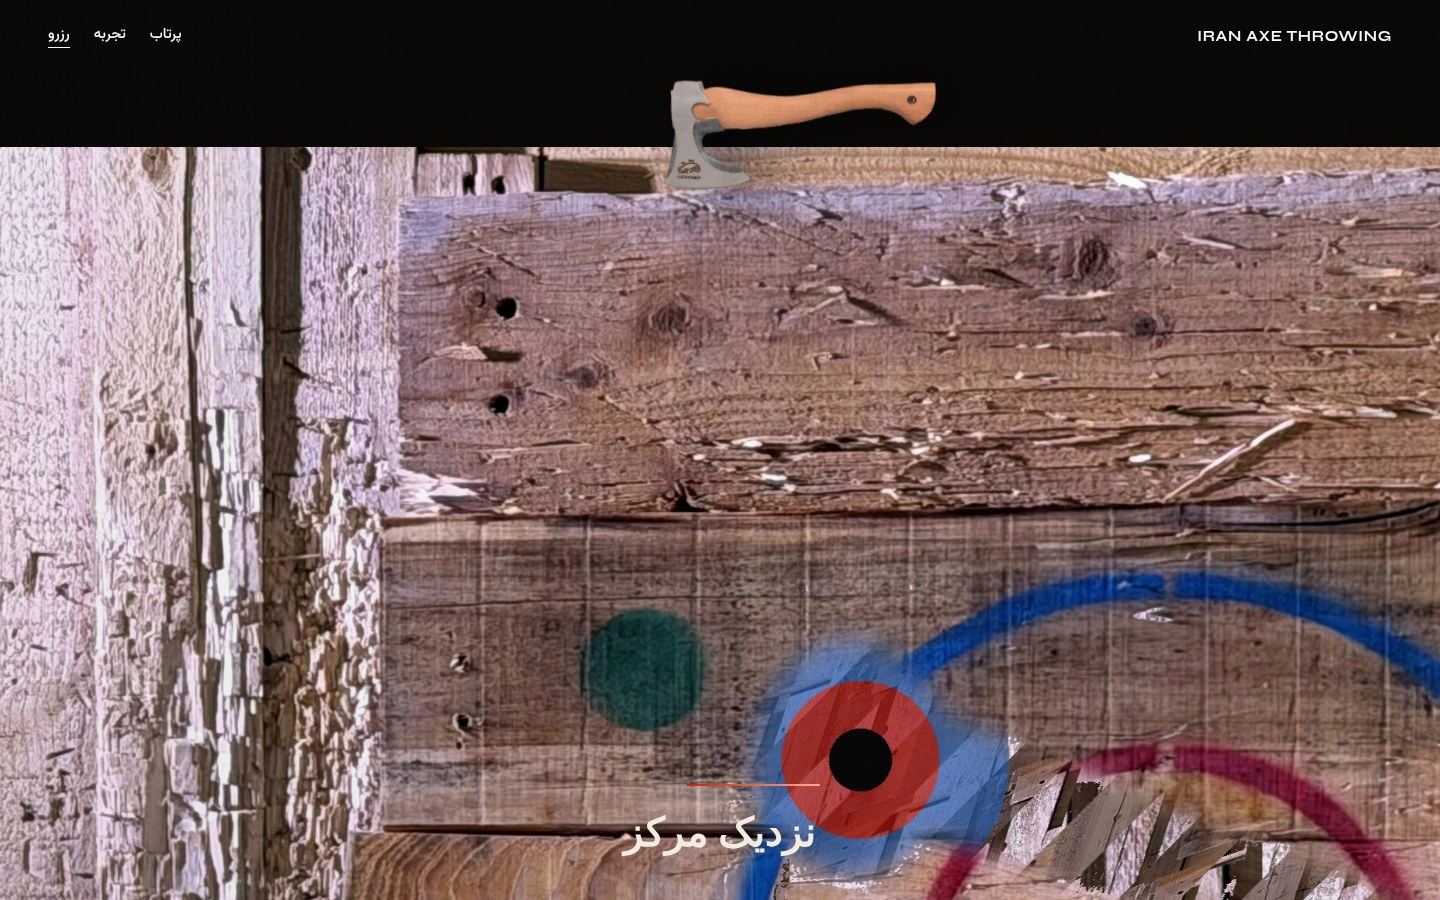
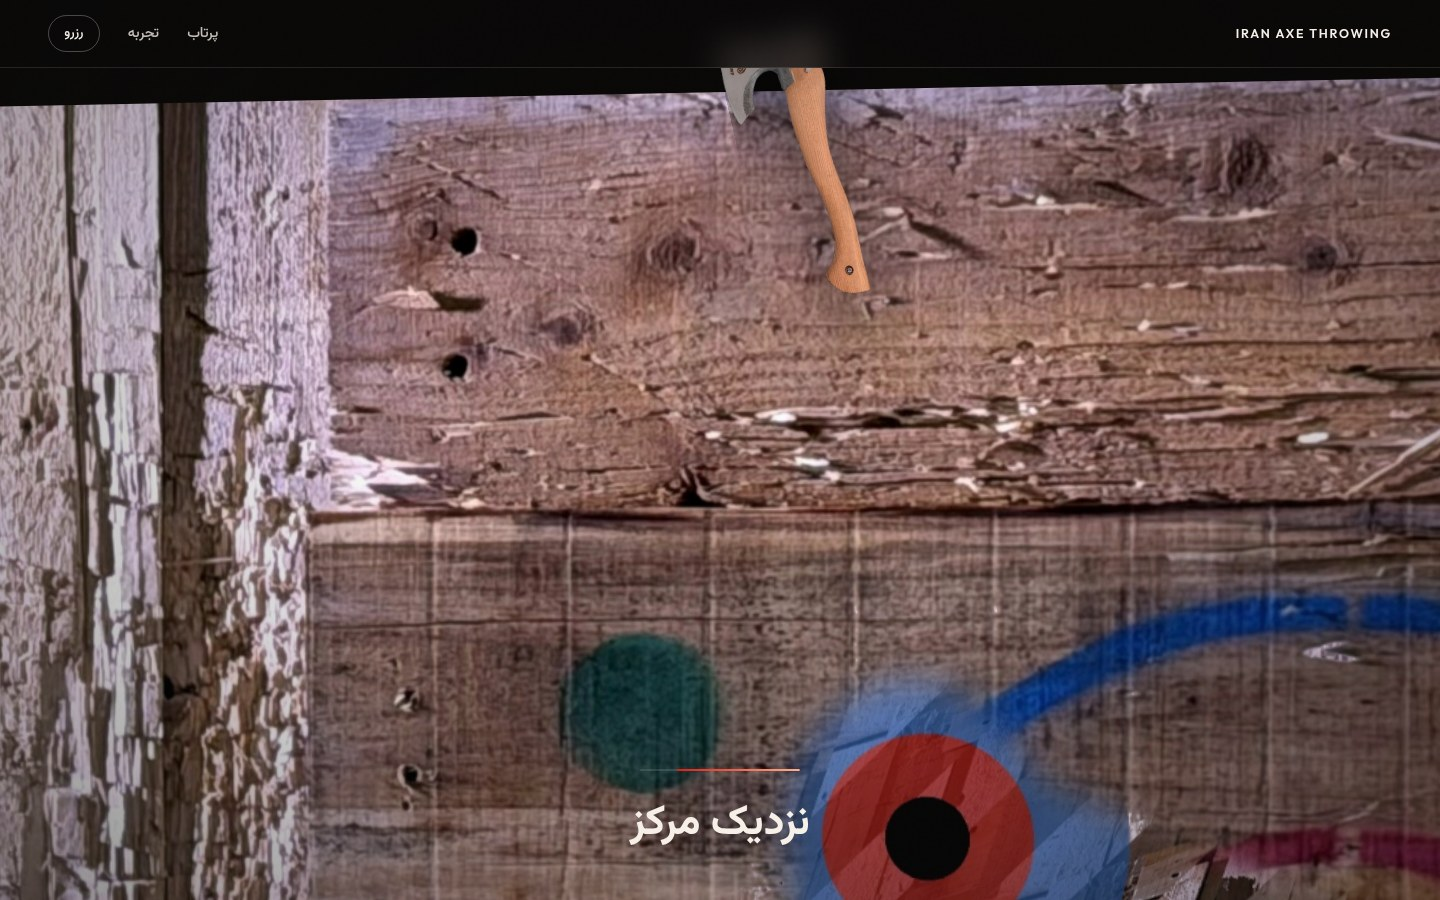
Add cinematic camera orbit during axe throw scroll

diff --git a/js/app.js b/js/app.js
@@ -4,6 +4,7 @@
 
   const header = document.getElementById("header");
   const scene = document.querySelector(".scene");
+  const camera = document.getElementById("camera");
   const photo = document.getElementById("scene-photo");
   const hitPlate = document.querySelector(".plate-hit");
   const veil = document.getElementById("scene-veil");
@@ -14,7 +15,7 @@
   const progress = document.getElementById("progress");
   const line = document.getElementById("line");
 
-  if (!scene || !axe) return;
+  if (!scene || !axe || !camera) return;
 
   const lines = [
     "دست را عقب ببر",
@@ -24,7 +25,6 @@
     "بولزآی.",
   ];
 
-  // header glass on scroll
   ScrollTrigger.create({
     start: 40,
     onUpdate: (self) => {
@@ -32,7 +32,6 @@
     },
   });
 
-  // elegant hero entrance
   if (!reduce) {
     gsap.from(".hero-copy > *", {
       y: 36,
@@ -44,14 +43,26 @@
     });
   }
 
+  gsap.set(camera, {
+    rotateY: 0,
+    rotateX: 0,
+    z: 0,
+    xPercent: 0,
+    yPercent: 0,
+    force3D: true,
+  });
+
   gsap.set(axe, {
     left: "16%",
     top: "70%",
     xPercent: -50,
     yPercent: -50,
     rotate: -40,
+    rotateY: 0,
+    rotateX: 0,
     scale: 0.95,
     opacity: 0,
+    force3D: true,
   });
   gsap.set(throwCopy, { opacity: 0 });
   gsap.set(hitPlate, { opacity: 0 });
@@ -68,7 +79,7 @@
       trigger: scene,
       start: "top top",
       end: "bottom bottom",
-      scrub: 0.7,
+      scrub: 0.75,
       onUpdate: (self) => {
         const p = self.progress;
         if (progress) progress.style.width = `${Math.max(0, (p - 0.16) / 0.84) * 100}%`;
@@ -83,44 +94,156 @@
     },
   });
 
-  // photo parallax + hero exit
-  tl.to(photo, { yPercent: 10, scale: 1.08, duration: 1.1 }, 0);
-  tl.to(heroCopy, { opacity: 0, y: -40, filter: "blur(6px)", duration: 0.55 }, 0.72);
-  tl.to(veil, { opacity: 0.4, duration: 0.6 }, 0.55);
+  // ─── HERO hold: camera almost flat
+  tl.to(photo, { yPercent: 8, scale: 1.06, duration: 1.0 }, 0);
+  tl.to(camera, { rotateY: -4, rotateX: 2, z: -40, duration: 1.0 }, 0);
+  tl.to(heroCopy, { opacity: 0, y: -40, filter: "blur(6px)", duration: 0.55 }, 0.7);
+  tl.to(veil, { opacity: 0.38, duration: 0.55 }, 0.55);
 
-  tl.to(axe, { opacity: 1, duration: 0.22 }, 1.0);
-  tl.to(throwCopy, { opacity: 1, duration: 0.35 }, 1.05);
+  // axe enters as we start thrower POV
+  tl.to(axe, { opacity: 1, duration: 0.22 }, 0.95);
+  tl.to(throwCopy, { opacity: 1, duration: 0.35 }, 1.0);
 
-  // wind-up
-  tl.to(axe, { left: "12%", top: "76%", rotate: -78, scale: 1.02, duration: 0.85 }, 1.15);
-  tl.to(photo, { yPercent: 16, scale: 1.12, duration: 0.85 }, 1.15);
-  tl.to(veil, { opacity: 0.26, duration: 0.85 }, 1.15);
+  // ─── WIND-UP: camera over shoulder (from thrower side)
+  tl.to(
+    camera,
+    {
+      rotateY: 14,
+      rotateX: 6,
+      z: -120,
+      xPercent: -3,
+      yPercent: 1,
+      duration: 0.9,
+    },
+    1.1
+  );
+  tl.to(axe, { left: "11%", top: "76%", rotate: -85, rotateY: 18, scale: 1.05, duration: 0.9 }, 1.1);
+  tl.to(photo, { yPercent: 14, scale: 1.12, duration: 0.9 }, 1.1);
+  tl.to(veil, { opacity: 0.28, duration: 0.9 }, 1.1);
 
-  // release + spin
-  tl.to(axe, { left: "30%", top: "50%", rotate: 260, scale: 1.12, duration: 1.2 }, 2.0);
-  tl.to(photo, { yPercent: 24, scale: 1.16, duration: 1.2 }, 2.0);
-  tl.to(veil, { opacity: 0.14, duration: 1.2 }, 2.0);
+  // ─── RELEASE: camera swings with the throw (orbit)
+  tl.to(
+    camera,
+    {
+      rotateY: -6,
+      rotateX: 1,
+      z: -60,
+      xPercent: 1,
+      yPercent: 0,
+      duration: 1.25,
+    },
+    2.0
+  );
+  tl.to(
+    axe,
+    {
+      left: "30%",
+      top: "50%",
+      rotate: 280,
+      rotateY: -25,
+      rotateX: 12,
+      scale: 1.15,
+      duration: 1.25,
+    },
+    2.0
+  );
+  tl.to(photo, { yPercent: 22, scale: 1.16, duration: 1.25 }, 2.0);
+  tl.to(veil, { opacity: 0.14, duration: 1.25 }, 2.0);
 
-  // mid-air
-  tl.to(axe, { left: "46%", top: "45%", rotate: 560, scale: 0.98, duration: 1.25 }, 3.2);
-  tl.to(photo, { yPercent: 32, scale: 1.2, duration: 1.25 }, 3.2);
-  tl.to(veil, { opacity: 0.08, duration: 1.25 }, 3.2);
+  // ─── MID-FLIGHT: dramatic low/side angle following axe
+  tl.to(
+    camera,
+    {
+      rotateY: -16,
+      rotateX: -5,
+      z: 40,
+      xPercent: 4,
+      yPercent: -2,
+      duration: 1.3,
+    },
+    3.25
+  );
+  tl.to(
+    axe,
+    {
+      left: "45%",
+      top: "45%",
+      rotate: 580,
+      rotateY: 40,
+      rotateX: -8,
+      scale: 1.0,
+      duration: 1.3,
+    },
+    3.25
+  );
+  tl.to(photo, { yPercent: 30, scale: 1.2, duration: 1.3 }, 3.25);
+  tl.to(veil, { opacity: 0.08, duration: 1.3 }, 3.25);
 
-  // approach
-  tl.to(axe, { left: "54%", top: "43%", rotate: 720, scale: 0.7, duration: 1.1 }, 4.45);
-  tl.to(photo, { yPercent: 38, scale: 1.24, duration: 1.1 }, 4.45);
-  tl.to(veil, { opacity: 0.05, duration: 1.1 }, 4.45);
+  // ─── APPROACH: camera pushes into bullseye (dolly in)
+  tl.to(
+    camera,
+    {
+      rotateY: -4,
+      rotateX: 0,
+      z: 160,
+      xPercent: 1,
+      yPercent: 0,
+      duration: 1.15,
+    },
+    4.55
+  );
+  tl.to(
+    axe,
+    {
+      left: "53%",
+      top: "43%",
+      rotate: 720,
+      rotateY: 8,
+      rotateX: 0,
+      scale: 0.72,
+      duration: 1.15,
+    },
+    4.55
+  );
+  tl.to(photo, { yPercent: 36, scale: 1.24, duration: 1.15 }, 4.55);
+  tl.to(veil, { opacity: 0.05, duration: 1.15 }, 4.55);
 
-  // impact
-  tl.to(axe, { left: "55%", top: "43%", rotate: 748, scale: 0.52, duration: 0.35 }, 5.55);
-  tl.fromTo(impact, { opacity: 0, scale: 0.2 }, { opacity: 1, scale: 15, duration: 0.32 }, 5.65);
-  tl.to(impact, { opacity: 0, duration: 0.42 }, 5.95);
-  tl.to(hitPlate, { opacity: 1, duration: 0.28 }, 5.7);
-  tl.to(axe, { opacity: 0, duration: 0.28 }, 5.72);
-  tl.fromTo(".scene-sticky", { x: 0 }, { x: 3, duration: 0.05, yoyo: true, repeat: 5 }, 5.65);
-  tl.to(photo, { yPercent: 40, scale: 1.26, duration: 0.55 }, 5.55);
-  tl.to(veil, { opacity: 0.22, duration: 0.55 }, 5.55);
-  tl.to({}, { duration: 0.75 }, 6.1);
+  // ─── IMPACT: snap camera square-on + punch
+  tl.to(
+    camera,
+    {
+      rotateY: 0,
+      rotateX: 0,
+      z: 220,
+      xPercent: 0,
+      yPercent: 0,
+      duration: 0.38,
+    },
+    5.7
+  );
+  tl.to(
+    axe,
+    {
+      left: "55%",
+      top: "43%",
+      rotate: 748,
+      rotateY: 0,
+      scale: 0.5,
+      duration: 0.35,
+    },
+    5.7
+  );
+  tl.fromTo(impact, { opacity: 0, scale: 0.2 }, { opacity: 1, scale: 16, duration: 0.3 }, 5.82);
+  tl.to(impact, { opacity: 0, duration: 0.4 }, 6.1);
+  tl.to(hitPlate, { opacity: 1, duration: 0.25 }, 5.85);
+  tl.to(axe, { opacity: 0, duration: 0.25 }, 5.88);
+  tl.fromTo(camera, { x: 0 }, { x: 5, duration: 0.05, yoyo: true, repeat: 5 }, 5.82);
+  tl.to(photo, { yPercent: 38, scale: 1.28, duration: 0.5 }, 5.7);
+  tl.to(veil, { opacity: 0.2, duration: 0.5 }, 5.7);
+
+  // settle
+  tl.to(camera, { z: 80, duration: 0.55 }, 6.2);
+  tl.to({}, { duration: 0.55 }, 6.4);
 
   gsap.from(".exp-rows article", {
     y: 40,

diff --git a/index.html b/index.html
@@ -25,15 +25,16 @@
   <main id="top">
     <section class="scene" id="scene">
       <div class="scene-sticky">
-        <div class="scene-photo" id="scene-photo">
-          <img class="plate plate-clean" src="assets/hero.jpg" alt="" />
-          <img class="plate plate-hit" src="assets/hero-hit.jpg" alt="" />
+        <div class="camera" id="camera">
+          <div class="scene-photo" id="scene-photo">
+            <img class="plate plate-clean" src="assets/hero.jpg" alt="" />
+            <img class="plate plate-hit" src="assets/hero-hit.jpg" alt="" />
+          </div>
+          <img class="axe" id="axe" src="assets/axe.png" alt="" />
+          <div class="impact" id="impact"></div>
         </div>
         <div class="scene-veil" id="scene-veil"></div>
         <div class="scene-vignette" aria-hidden="true"></div>
-
-        <img class="axe" id="axe" src="assets/axe.png" alt="" />
-        <div class="impact" id="impact"></div>
 
         <div class="hero-copy" id="hero-copy">
           <p class="eyebrow">Tehran · Axe Experience</p>

diff --git a/css/styles.css b/css/styles.css
@@ -161,12 +161,22 @@ button, input { font: inherit; color: inherit; }
   width: 100%;
   overflow: hidden;
   background: var(--bg);
+  perspective: 1400px;
+  perspective-origin: 50% 45%;
+}
+.camera {
+  position: absolute;
+  inset: 0;
+  transform-style: preserve-3d;
+  will-change: transform;
+  transform-origin: 50% 50%;
 }
 .scene-photo {
   position: absolute;
-  inset: -16% 0;
+  inset: -18% -8%;
   z-index: 0;
   will-change: transform;
+  transform-style: preserve-3d;
 }
 .scene-photo .plate {
   position: absolute;
@@ -205,6 +215,7 @@ button, input { font: inherit; color: inherit; }
   top: 68%;
   transform: translate(-50%, -50%) rotate(-35deg);
   transform-origin: 50% 16%;
+  transform-style: preserve-3d;
   filter: drop-shadow(0 28px 40px rgba(0, 0, 0, 0.75));
   opacity: 0;
   pointer-events: none;
